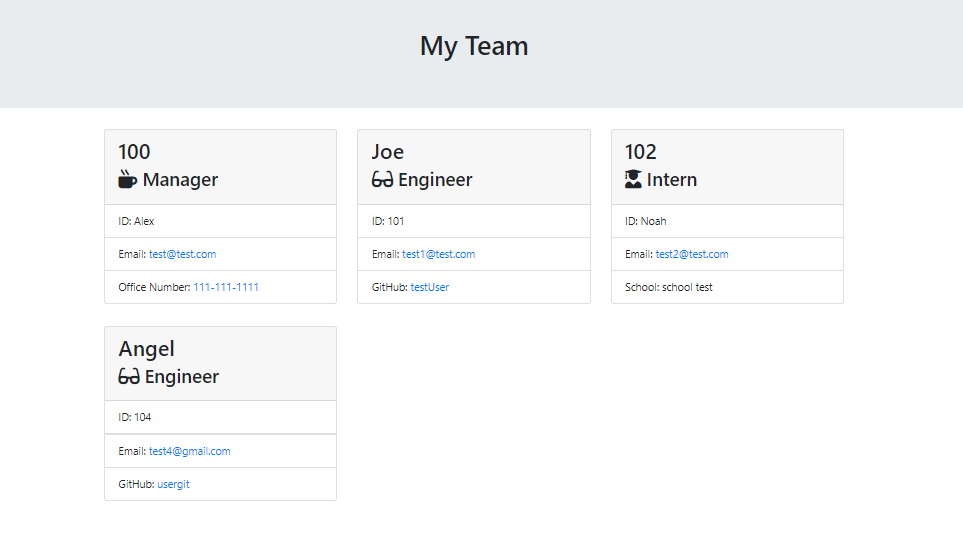
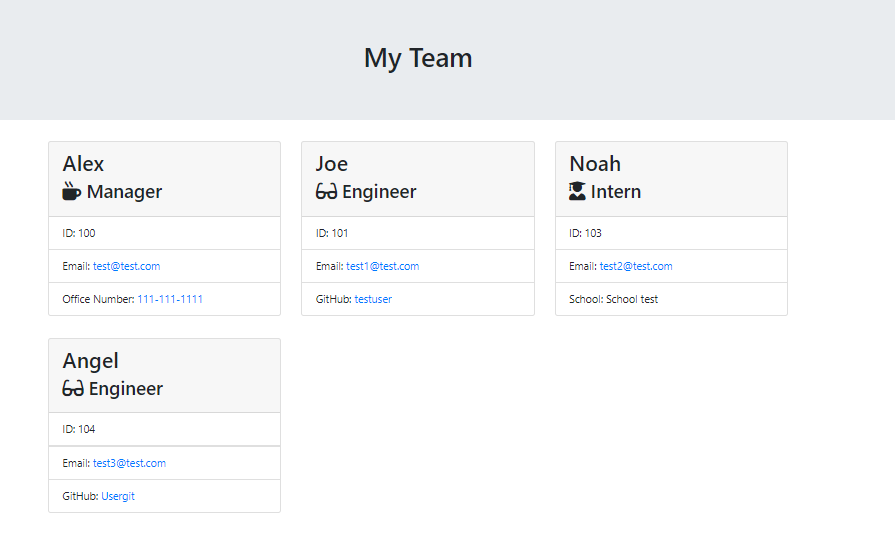
Added ReadMe file

diff --git a/output/team-member.html b/output/team-member.html
@@ -20,11 +20,11 @@
             <div class="col-md-6 col-lg-4">
     <div class="card">
         <div class="card-header">
-            <h2>100</h2>
+            <h2>Alex</h2>
             <h3><i class="fas fa-mug-hot"></i> Manager</h3>
         </div>
         <ul class="list-group list-group-flush">
-            <li class="list-group-item">ID: Alex</li>
+            <li class="list-group-item">ID: 100</li>
             <li class="list-group-item">Email: <a href="mailto:test@test.com">test@test.com</a></li>
             <li class="list-group-item">Office Number: <a href="tel:111-111-1111">111-111-1111</a></li>
         </ul>
@@ -38,19 +38,19 @@
         <ul class="list-group list-group-flush">
             <li class="list-group-item">ID: 101</li>
             <li class="list-group-item">Email: <a href="mailto:test1@test.com">test1@test.com</a></li>
-            <li class="list-group-item">GitHub: <a href="https://github.com/testUser">testUser</a></li>
+            <li class="list-group-item">GitHub: <a href="https://github.com/testuser">testuser</a></li>
         </ul>
     </div>
 </div><div class="col-md-6 col-lg-4">
     <div class="card">
         <div class="card-header">
-            <h2>102</h2>
+            <h2>Noah</h2>
             <h3><i class="fas fa-user-graduate"></i> Intern</h3>
         </div>
         <ul class="list-group list-group-flush">
-            <li class="list-group-item">ID: Noah</li>
+            <li class="list-group-item">ID: 103</li>
             <li class="list-group-item">Email: <a href="mailto:test2@test.com">test2@test.com</a></li>
-            <li class="list-group-item">School: school test</li>
+            <li class="list-group-item">School: School test</li>
         </ul>
     </div>
 </div><div class="col-md-6 col-lg-4">
@@ -61,8 +61,8 @@
         </div>
         <ul class="list-group list-group-flush">
             <li class="list-group-item">ID: 104</li>
-            <li class="list-group-item">Email: <a href="mailto:test4@gmail.com">test4@gmail.com</a></li>
-            <li class="list-group-item">GitHub: <a href="https://github.com/usergit">usergit</a></li>
+            <li class="list-group-item">Email: <a href="mailto:test3@test.com">test3@test.com</a></li>
+            <li class="list-group-item">GitHub: <a href="https://github.com/Usergit">Usergit</a></li>
         </ul>
     </div>
 </div>

diff --git a/README.md b/README.md
@@ -1,1 +1,36 @@
 # TeamProfileGenerator
+
+## User Story
+
+SO THAT I have quick access to their emails and GitHub profiles
+
+
+## Summary
+
+This application uses node.js, fs, util and inquirer to create prompts for the user to fill out team members and their information.  At the end HTML file is generated that displays a nicely formatted team roster based on user input.  This application  includes `Employee`, `Manager`, `Engineer`, and `Intern` classes. Application uses [Jest](https://www.npmjs.com/package/jest) for running the unit tests and [Inquirer](https://www.npmjs.com/package/inquirer) for collecting input from the user.
+
+## Installation:
+
+You need to make sure node.js, util, fs, jest and inquirer instaled before you run the application.
+
+## Usage
+
+This application allows for a user to create a team roster.
+
+## Project Demo
+
+Below is the walkthrough video that demonstrates the functionality of the README generator.<br/>
+
+[![Readme video]](https://drive.google.com/file/d/1rS-xVxk8h7kgeb86bX4uPnZBhf5BCTkF/view)
+
+<img src="./assets/Screenshot.gif" alt="Readme video"  >
+
+## Ouput
+
+### <img src="./assets/TeamMember-Outputfile.PNG" alt="Teamlist" width=70%>
+
+## Repository
+
+https://github.com/KannaVairavan/TeamProfileGenerator.git
+
+
